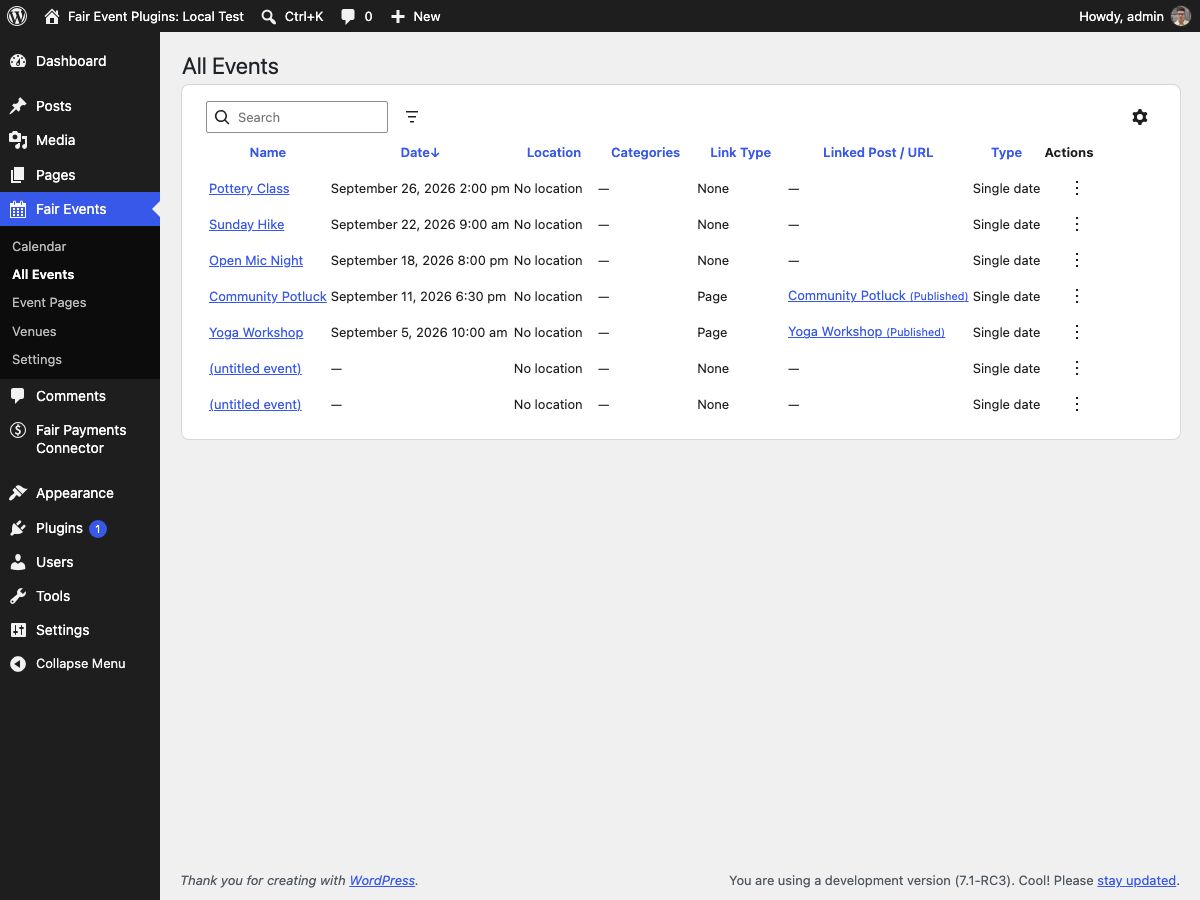
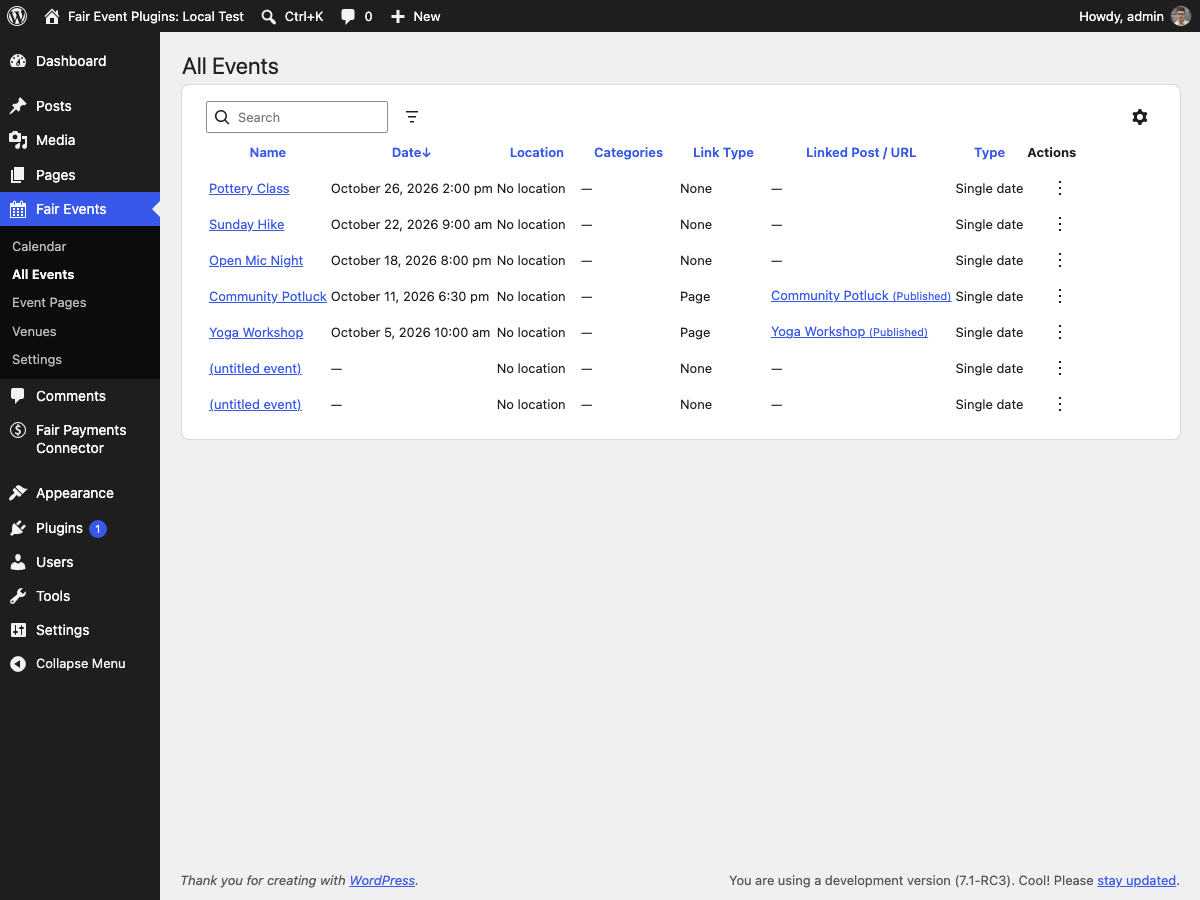
Regenerate WordPress.org screenshots
Recapture the plugin-directory images against the current build so
they show this month's seeded events and today's admin UI.

Two screenshot specs no longer ran on a fresh WordPress 7.1 site: the
timetable cleanup called wp.apiFetch from the dashboard, which no
longer loads it, and the calendar-button spec was blocked by the
editor welcome guide. Both now work from a clean install.

diff --git a/fair-calendar-button/e2e/wordpress-org.spec.js b/fair-calendar-button/e2e/wordpress-org.spec.js
@@ -27,6 +27,21 @@ test.describe( 'WordPress.org Screenshot for Fair Calendar Button', () => {
 		// Wait a bit for the editor to fully initialize
 		await page.waitForTimeout( 2000 );
 
+		// Dismiss the "Welcome to the editor" guide if it shows up. It appears
+		// on a fresh admin session and blocks the inserter.
+		const modalOverlay = page.locator(
+			'.components-modal__screen-overlay'
+		);
+		if (
+			await modalOverlay
+				.first()
+				.isVisible()
+				.catch( () => false )
+		) {
+			await page.keyboard.press( 'Escape' );
+			await modalOverlay.first().waitFor( { state: 'detached' } );
+		}
+
 		// Add Calendar Button block via the main inserter
 		await page.getByRole( 'button', { name: 'Block Inserter' } ).click();
 		await page.fill(

diff --git a/fair-timetable/e2e/wordpress-org.spec.js b/fair-timetable/e2e/wordpress-org.spec.js
@@ -163,6 +163,10 @@ async function deleteExistingDemoPost( page, title ) {
  * @param {{title: string, columns: string[], sessions: string[]}} content
  */
 async function buildDemoPost( page, content ) {
+	// The cleanup needs wp.apiFetch, which the dashboard doesn't load — run
+	// it from the editor, then reload so the new post starts clean.
+	await page.goto( '/wp-admin/post-new.php' );
+	await page.waitForFunction( () => window.wp && window.wp.apiFetch );
 	await deleteExistingDemoPost( page, content.title );
 
 	await page.goto( '/wp-admin/post-new.php' );
